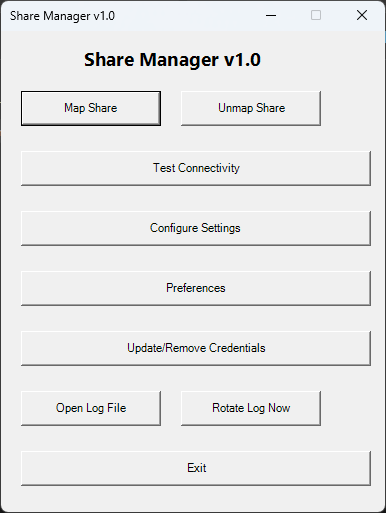
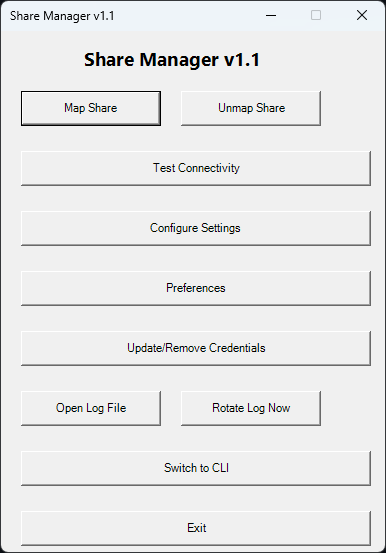
Updated to version 1.1 (Bug fixes, switch to CLI / GUI options and a different approach to handling credentials

diff --git a/README.md b/README.md
@@ -13,7 +13,7 @@ Easily manage and map network shares using this PowerShell script with support f
 - **Test connectivity to the NAS/share** before attempting to map.
 - **Review and modify preferences** at any time.
 - **Log file for troubleshooting** and activity tracking.
-- **Automatic setup wizard** for first-time use.
+- **Setup wizard** for first-time use.
 - **No administrator permissions required.**
 
 ## Prerequisites
@@ -56,9 +56,9 @@ Easily manage and map network shares using this PowerShell script with support f
    - Double-click the shortcut to launch the script in your preferred mode (CLI or GUI).
 
 ## Notes
-- Settings are stored in the `C:\Scripts\config.xml` file.
-- Log output is stored in `C:\Scripts\log.txt`.
-- Use the Preferences menu to update paths, credentials, or behavior at any time.
+- Settings are stored in the `%USERPROFILE%\AppData\Roaming\Share_Manager\config.json` file.
+- Log output is stored in `%USERPROFILE%\AppData\Roaming\Share_Manager\Share_Manager.log`.
+- Use the Preferences menu to update paths, or behavior at any time.
 
 ## License
 This project is licensed under the MIT License. See the `LICENSE` file for details.
